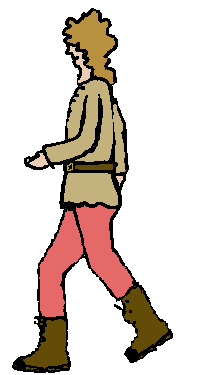
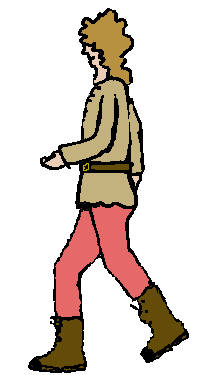
.

Changed region(s): [[0.06, 0.0, 0.96, 0.9973]]

diff --git a/game.js b/game.js
@@ -1,4 +1,4 @@
-import { getTrackingGrid, setTrackingGrid, getForegroundsData, setCurrentPlayerImage, getCurrentPlayerImage, getCurrentScreenHasForegroundItems, getPlayerMovementStatus, setPlayerMovementStatus, setPlayerDirection, getPlayerDirection, setGridData, getForcePlayerLocation, getVerbsBlockedExcept, getShouldNotBeResizedArray, getPendingEvents, setPendingEvents, getAnimationFinished, setAnimationFinished, setTargetYEntity, getNonPlayerAnimationFunctionalityActive, setTargetXEntity, setCantGoThatWay, getCantGoThatWay, getDrawGrid, getClickPoint, setClickPoint, setDialogueRows, getTransitioningToDialogueState, setBottomContainerHeight, getBottomContainerHeight, getInteractiveDialogueState, setResizedNpcsGridState, getOriginalValueInCellWhereNpcPlacedNew, setOriginalValueInCellWhereNpcPlacedNew, setResizedObjectsGridState, getAnimationInProgress, setAnimationInProgress, getPreAnimationGridState, setPreAnimationGridState, getOriginalGridState, setOriginalGridState, getOriginalValueInCellWhereObjectPlacedNew, setOriginalValueInCellWhereObjectPlacedNew, getCurrentSpeaker, getCurrentYposNpc, getNpcData, getWaitingForSecondItem, getDisplayText, getAllGridData, getBeginGameStatus, getCanvasCellHeight, getCanvasCellWidth, getCurrentScreenId, getCustomMouseCursor, getElements, getExitNumberToTransitionTo, getGameInProgress, getGameVisibleActive, getGridData, getGridSizeX, getGridSizeY, getGridTargetX, getGridTargetY, getHoverCell, getInitialStartGridReference, getLanguage, getMenuState, getNavigationData, getNextScreenId, getObjectData, getOriginalValueInCellWhereObjectPlaced, getPlayerObject, getPreviousScreenId, getTransitioningNow, getTransitioningToAnotherScreen, getUpcomingAction, getVerbButtonConstructionStatus, getZPosHover, setCanvasCellHeight, setCanvasCellWidth, setCurrentlyMovingToAction, setCustomMouseCursor, setExitNumberToTransitionTo, setGameStateVariable, setGridTargetX, setGridTargetY, setNextScreenId, setOriginalValueInCellWhereObjectPlaced, getOriginalValueInCellWhereNpcPlaced, setOriginalValueInCellWhereNpcPlaced, setPlayerObject, setTargetXPlayer, setTargetYPlayer, setTransitioningNow, setTransitioningToAnotherScreen, setUpcomingAction, setVerbButtonConstructionStatus, setZPosHover, getHoveringInterestingObjectOrExit, getGameStateVariable, getCurrentXposNpc, getLocalization, setGameInProgress, getColorTextPlayer, getDialogueData, setObjectsData } from './constantsAndGlobalVars.js';
+import { getWalkSpeedPlayer, getTrackingGrid, setTrackingGrid, getForegroundsData, setCurrentPlayerImage, getCurrentPlayerImage, getCurrentScreenHasForegroundItems, getPlayerMovementStatus, setPlayerMovementStatus, setPlayerDirection, getPlayerDirection, setGridData, getForcePlayerLocation, getVerbsBlockedExcept, getShouldNotBeResizedArray, getPendingEvents, setPendingEvents, getAnimationFinished, setAnimationFinished, setTargetYEntity, getNonPlayerAnimationFunctionalityActive, setTargetXEntity, setCantGoThatWay, getCantGoThatWay, getDrawGrid, getClickPoint, setClickPoint, setDialogueRows, getTransitioningToDialogueState, setBottomContainerHeight, getBottomContainerHeight, getInteractiveDialogueState, setResizedNpcsGridState, getOriginalValueInCellWhereNpcPlacedNew, setOriginalValueInCellWhereNpcPlacedNew, setResizedObjectsGridState, getAnimationInProgress, setAnimationInProgress, getPreAnimationGridState, setPreAnimationGridState, getOriginalGridState, setOriginalGridState, getOriginalValueInCellWhereObjectPlacedNew, setOriginalValueInCellWhereObjectPlacedNew, getCurrentSpeaker, getCurrentYposNpc, getNpcData, getWaitingForSecondItem, getDisplayText, getAllGridData, getBeginGameStatus, getCanvasCellHeight, getCanvasCellWidth, getCurrentScreenId, getCustomMouseCursor, getElements, getExitNumberToTransitionTo, getGameInProgress, getGameVisibleActive, getGridData, getGridSizeX, getGridSizeY, getGridTargetX, getGridTargetY, getHoverCell, getInitialStartGridReference, getLanguage, getMenuState, getNavigationData, getNextScreenId, getObjectData, getOriginalValueInCellWhereObjectPlaced, getPlayerObject, getPreviousScreenId, getTransitioningNow, getTransitioningToAnotherScreen, getUpcomingAction, getVerbButtonConstructionStatus, getZPosHover, setCanvasCellHeight, setCanvasCellWidth, setCurrentlyMovingToAction, setCustomMouseCursor, setExitNumberToTransitionTo, setGameStateVariable, setGridTargetX, setGridTargetY, setNextScreenId, setOriginalValueInCellWhereObjectPlaced, getOriginalValueInCellWhereNpcPlaced, setOriginalValueInCellWhereNpcPlaced, setPlayerObject, setTargetXPlayer, setTargetYPlayer, setTransitioningNow, setTransitioningToAnotherScreen, setUpcomingAction, setVerbButtonConstructionStatus, setZPosHover, getHoveringInterestingObjectOrExit, getGameStateVariable, getCurrentXposNpc, getLocalization, setGameInProgress, getColorTextPlayer, getDialogueData, setObjectsData } from './constantsAndGlobalVars.js';
 import { localize } from './localization.js';
 import { aStarPathfinding } from './pathFinding.js';
 import { setNpcData, setObjectData, performCommand, constructCommand, setScreenJSONData } from './handleCommands.js';
@@ -208,18 +208,39 @@ async function movePlayerTowardsTarget() {
 
     const movementStatus = getPlayerMovementStatus();
 
-    //animation sprite swap functionality
     if (movementStatus[0] === 'moving') {
         player.frameCount++;
         setPlayerObject('frameCount', player.frameCount);
     
-        if (player.frameCount % 10 === 0) {
-            const spriteFrame = (Math.floor(player.frameCount / 4) % 9) + 1;// /20 is the speed, larger = slower and % 2 is the number of animation states per cycle
+        const isHorizontal = direction === 'right' || direction === 'left';
+        const frameCount = isHorizontal ? 9 : 2;
+        let frameSpeed = isHorizontal ? 4 : 12;
+
+        const totalFrames = (frameCount * 2) - 2;
+        const animationIndex = Math.floor(player.frameCount / frameSpeed) % totalFrames;
+        const isReversed = animationIndex >= frameCount;
+        const spriteFrame = isReversed
+            ? frameCount - (animationIndex - frameCount + 1)
+            : animationIndex + 1;
+    
+        if (!isHorizontal) {
+            frameSpeed *= 2;
+        }
+    
+        if (spriteFrame === 3 || spriteFrame === 5 || spriteFrame === 7) { // make player movement a bit slower in places to simulate walking movement
+            player.speed = player.speed - 0.3;
+        } else {
+            player.speed = getWalkSpeedPlayer();
+        }
+
+        if (player.frameCount % frameSpeed === 0) {
             const spriteType = `move${spriteFrame}`;
             player.activeSprite = `${spriteType}_${direction}`;
             setPlayerObject('activeSprite', player.activeSprite);
         }
-    }
+    
+        setPlayerObject('speed', player.speed);
+    }    
 
     if (Math.abs(player.xPos - targetX) > speed) {
         player.xPos += (player.xPos < targetX) ? speed : -speed;
